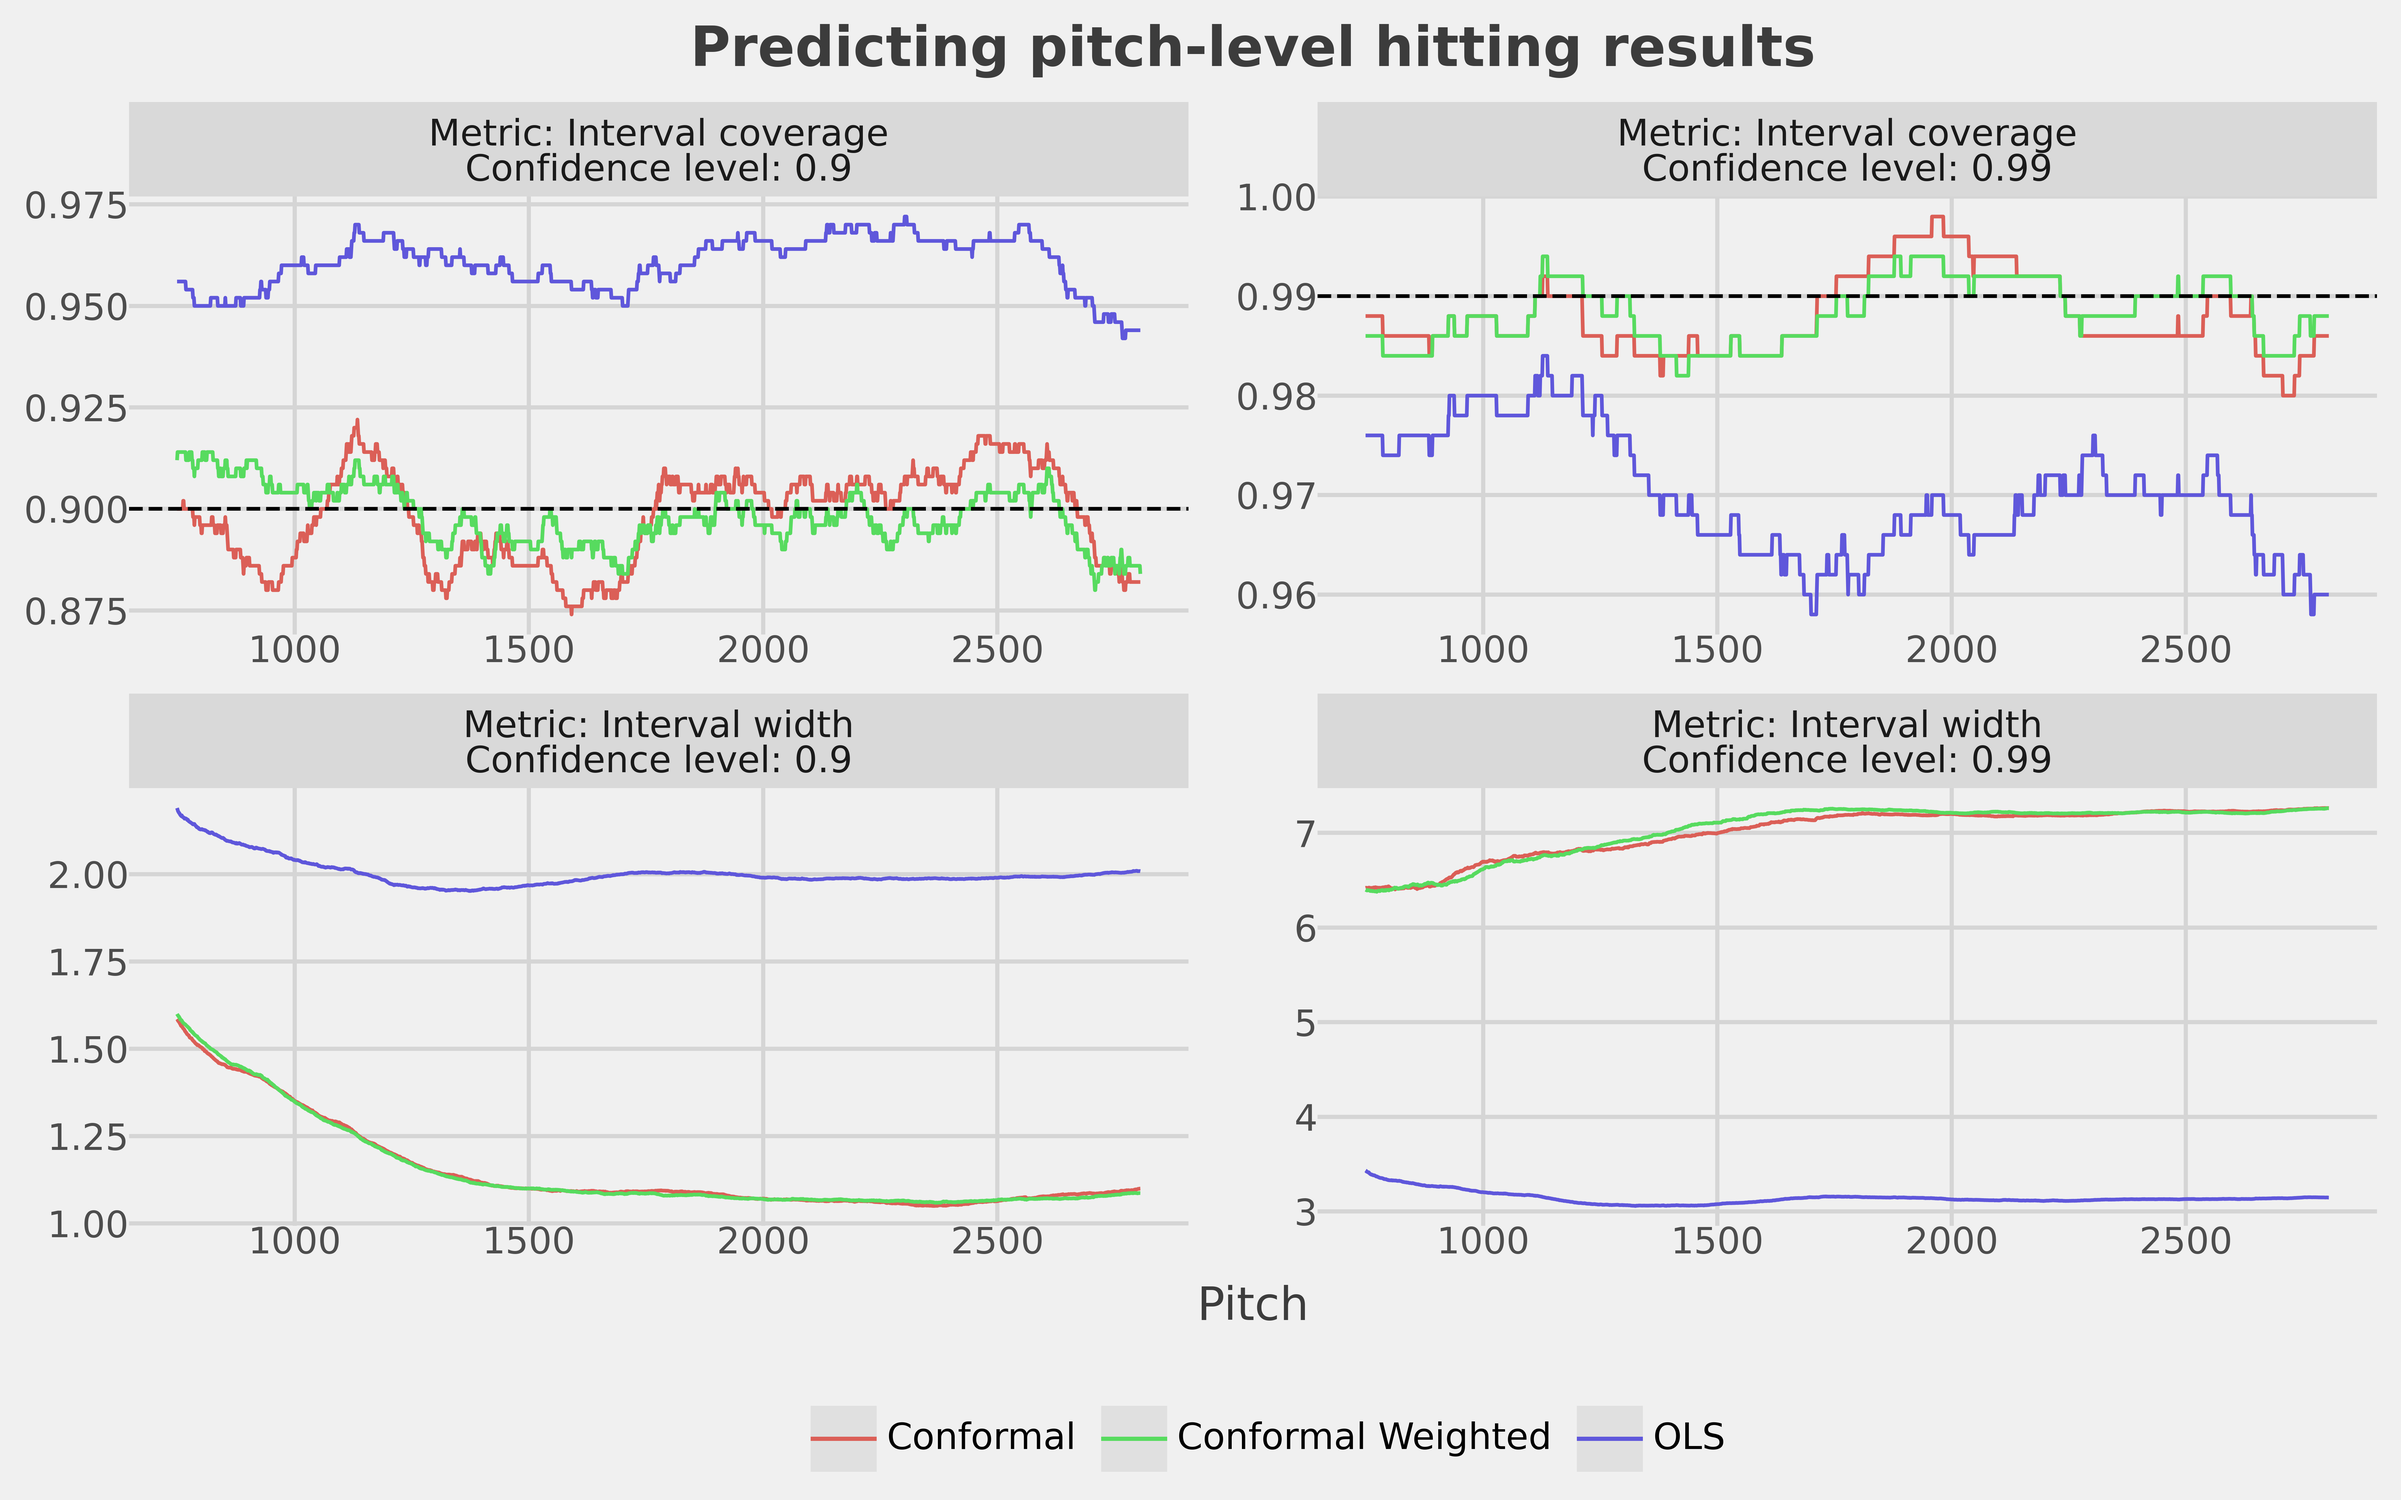
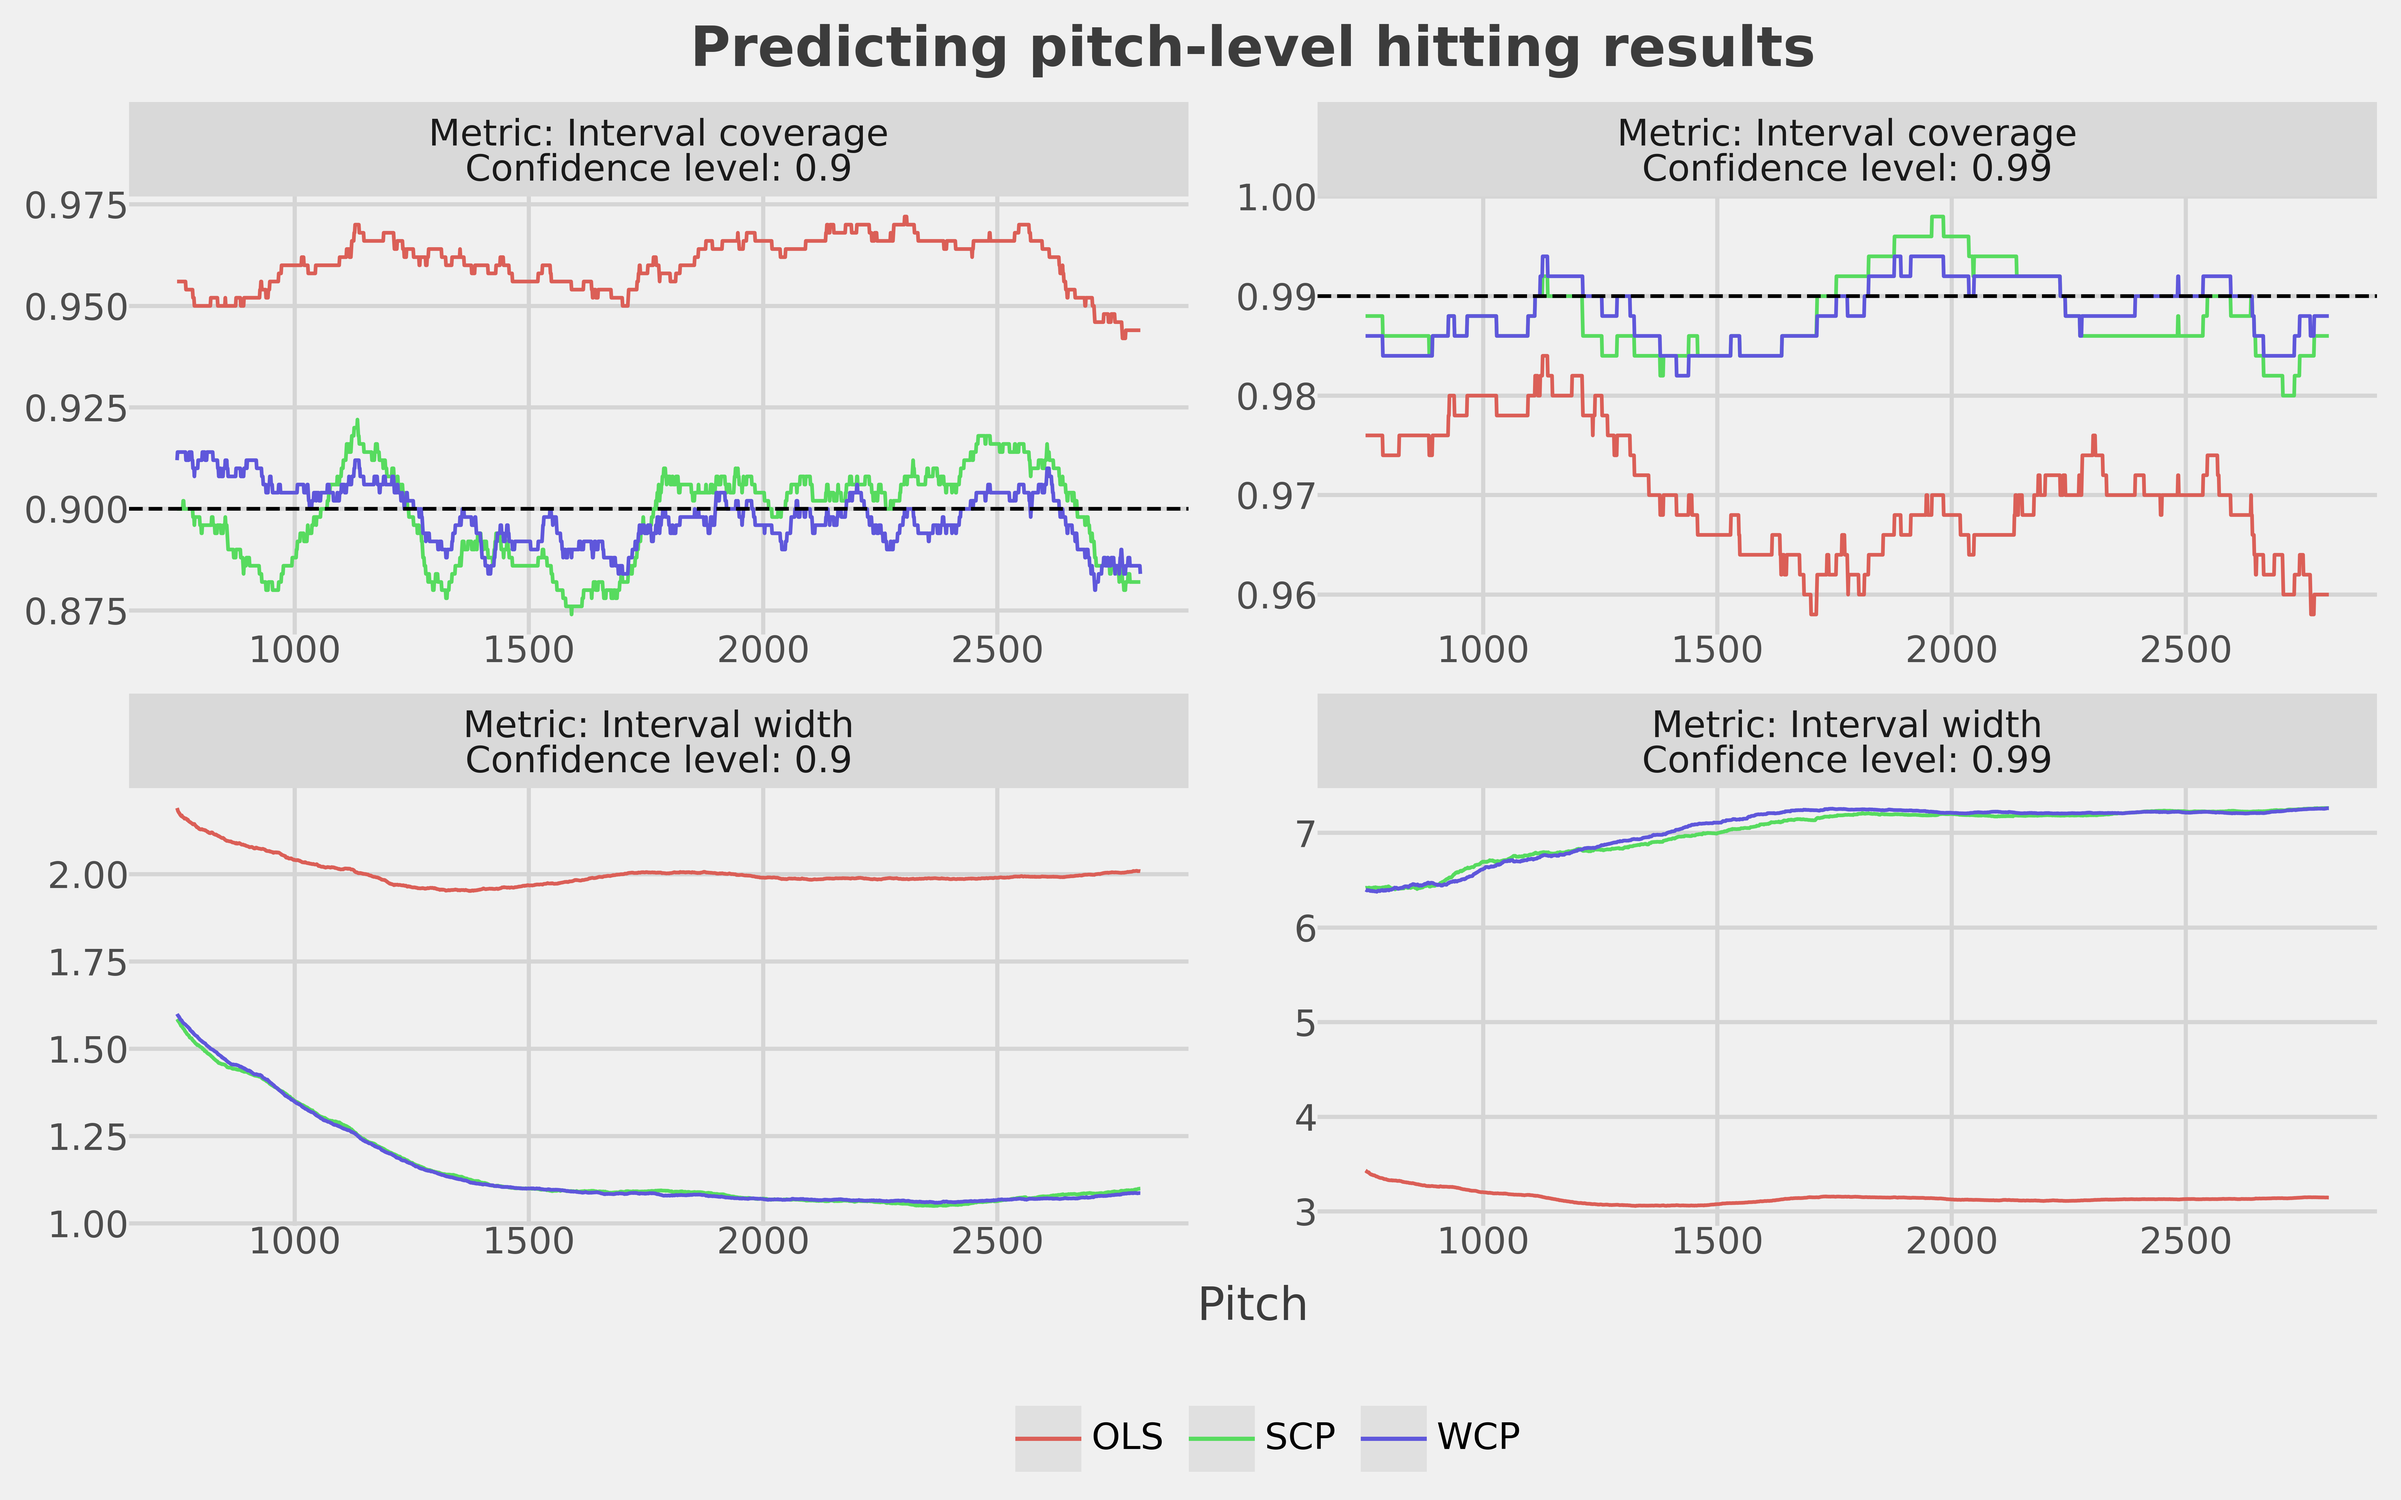
Tweak labels :art:

diff --git a/src/utils.py b/src/utils.py
@@ -113,8 +113,8 @@ def plot(
     results.loc[results["Metric"] == "rolling_width", "alpha"] = np.nan
     results["Metric"] = results["Metric"].apply(lambda x: "Interval coverage" if x == "rolling_coverage" else "Interval width")
     results["Method"] = results["model"].replace({
-        "conf": "Conformal",
-        "weighted_conf": "Conformal Weighted",
+        "conf": "SCP",
+        "weighted_conf": "WCP",
         "standard": "OLS"
     })
     coverage_plot = (

diff --git a/src/conformal.py b/src/conformal.py
@@ -56,6 +56,7 @@ if __name__ == "__main__":
     models = np.empty(0)
     alphas = np.empty(0)
 
+    print("Estimating prediction intervals ...")
     for interval in ["weighted_conf", "conf", "standard"]:
 
         for pitch in tqdm(range(250, len(batter_pitches)), total=len(batter_pitches)-250):
